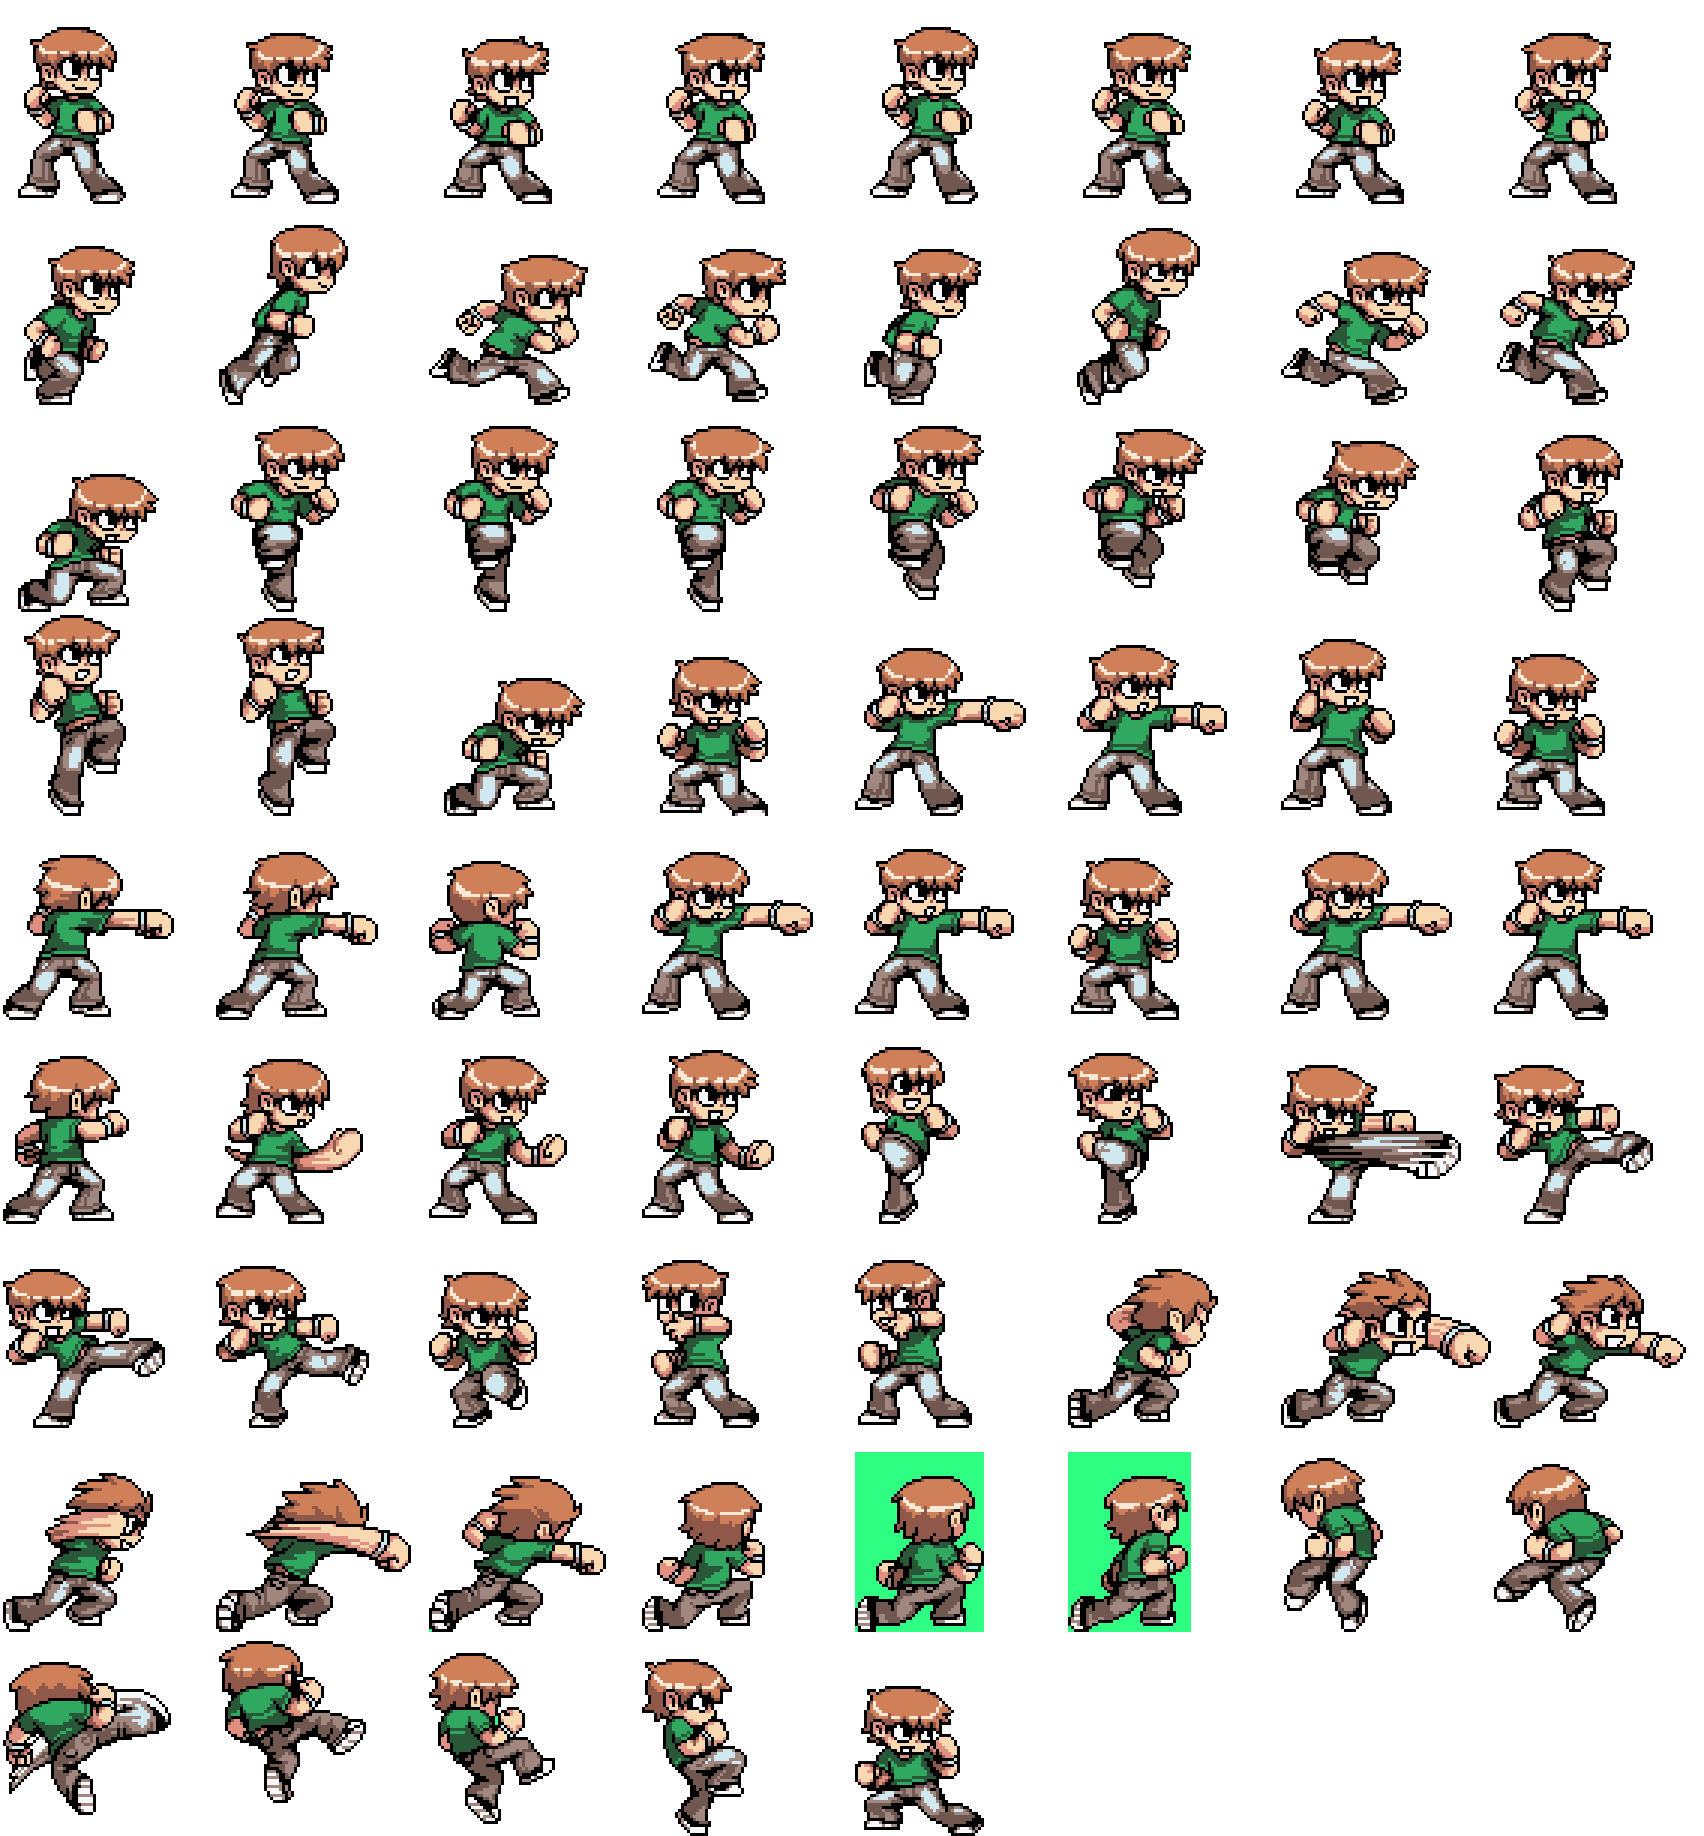
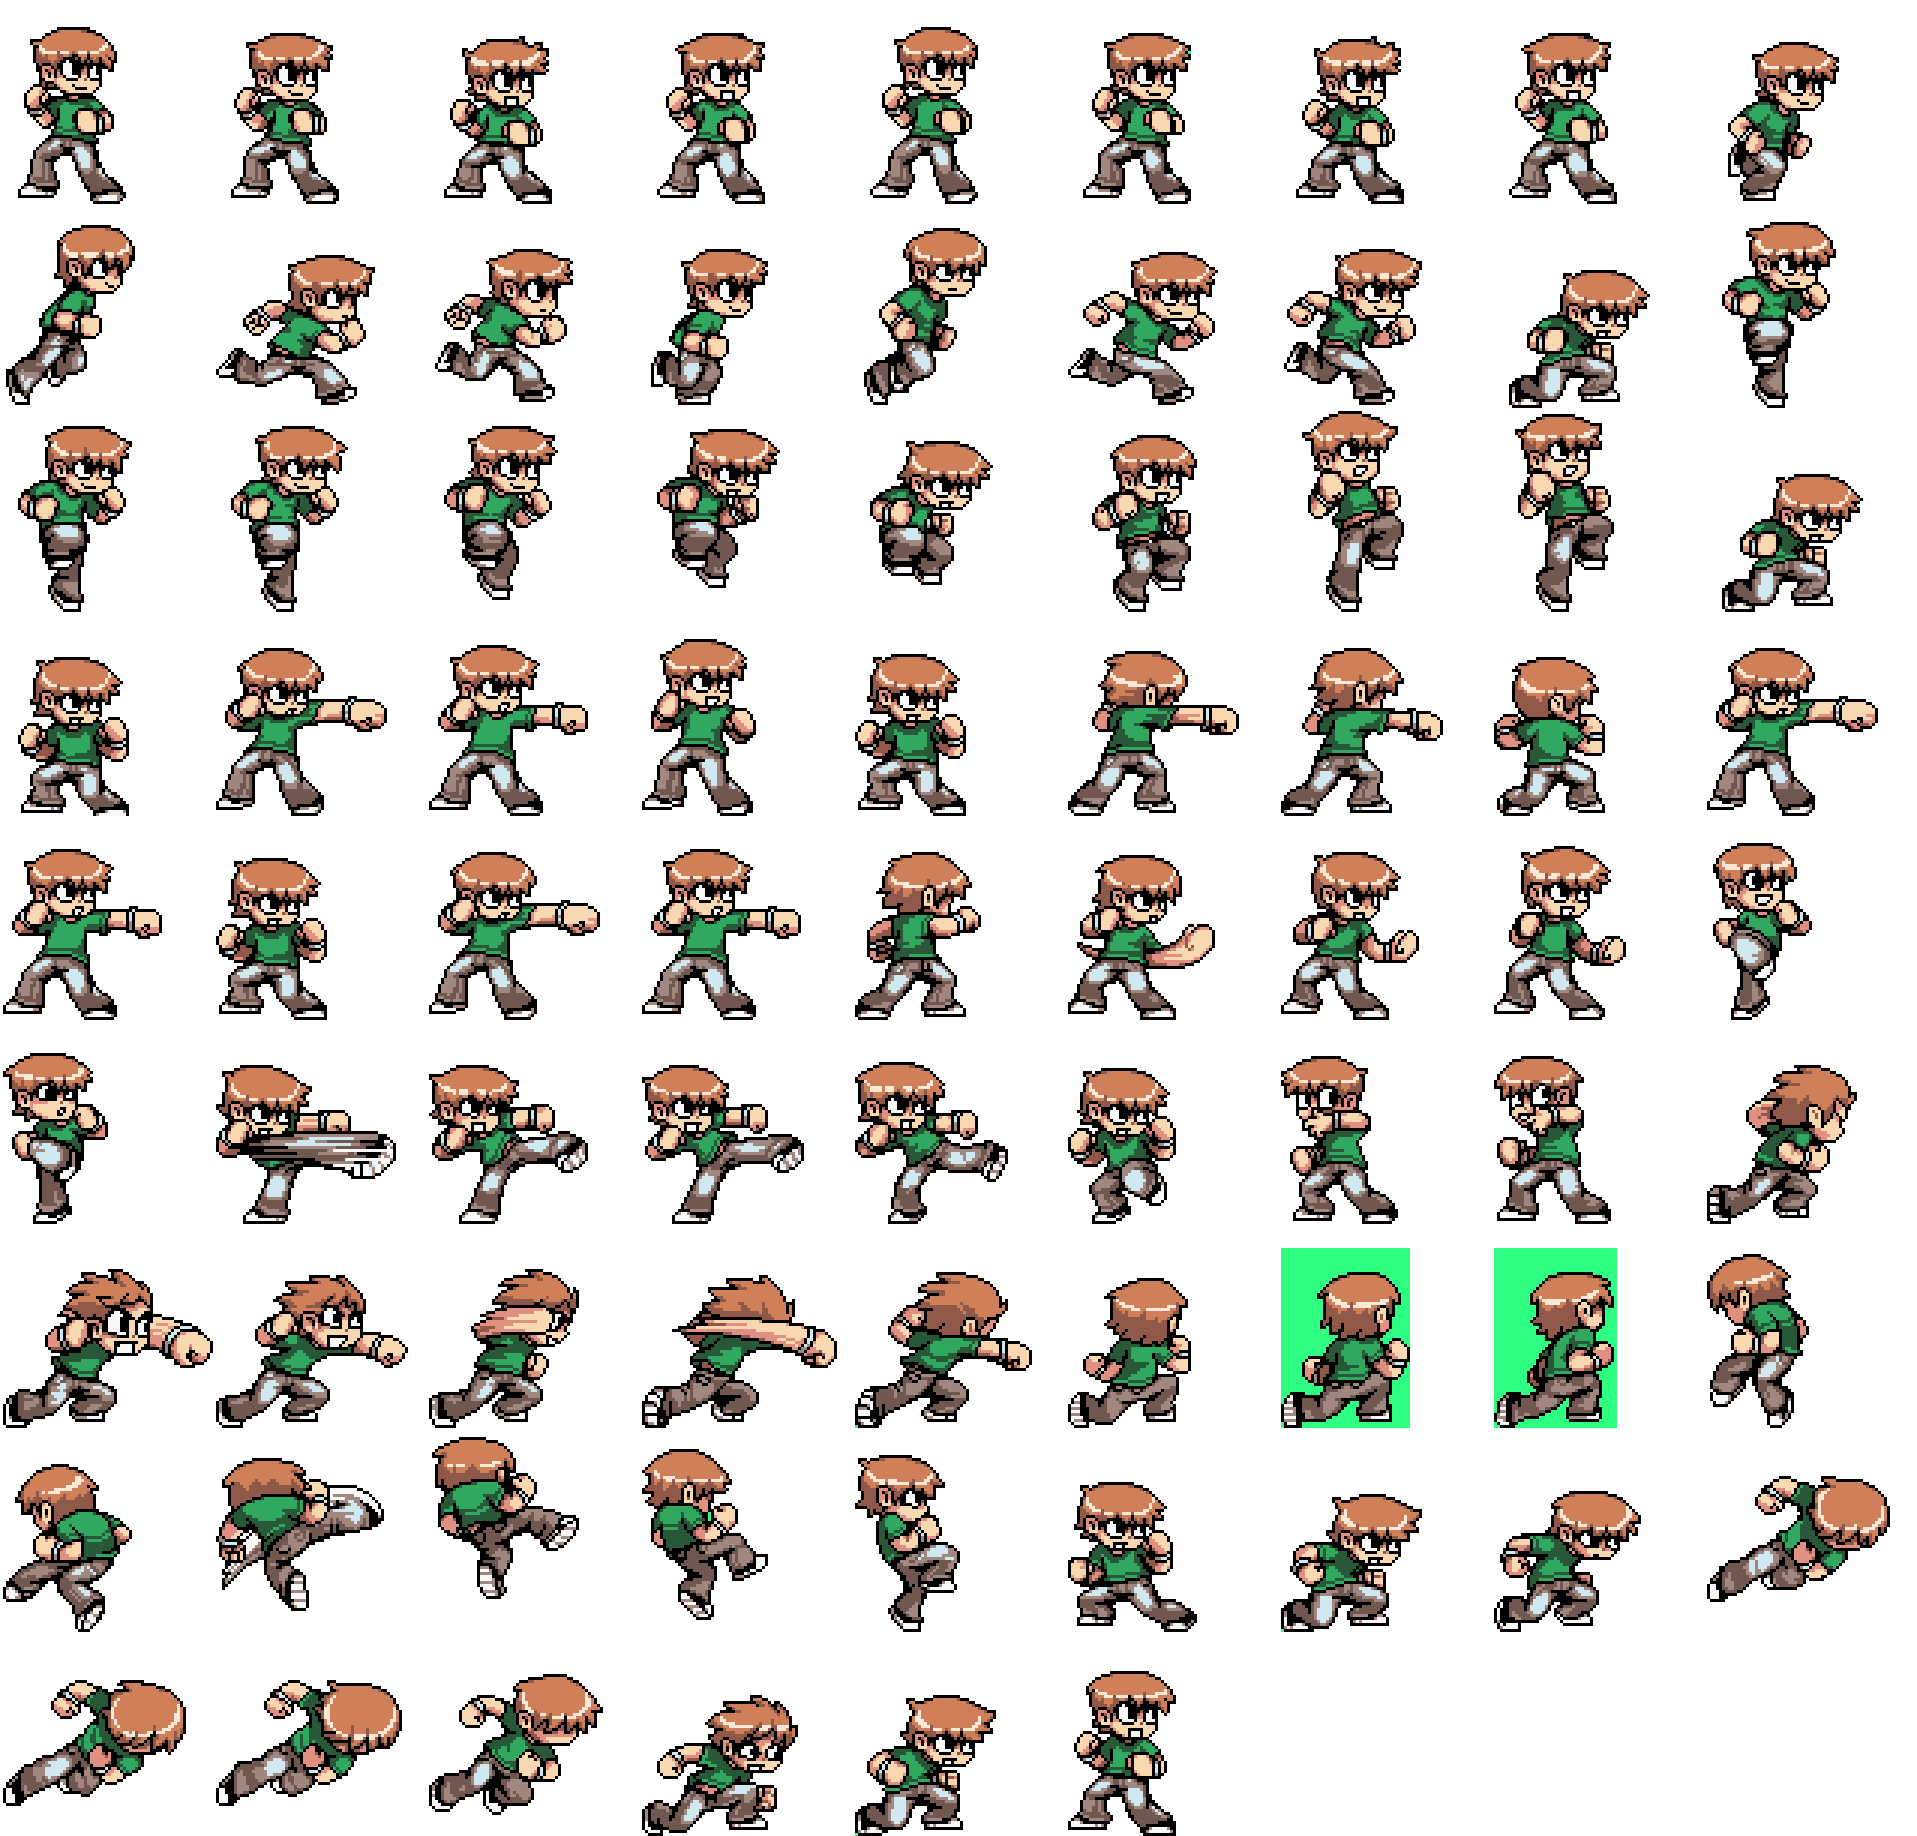
attacks now cancel out running anim (right)

diff --git a/resources/js/state1.js b/resources/js/state1.js
@@ -5,6 +5,7 @@ let pSpeed = 15;
 let player,
     atkBox,
     playerCombo = [],
+    pKeyPressed,
     platform,
     playerJump = 15,
     relativePosX = 0,
@@ -38,7 +39,7 @@ demo.state1 = function () { };
 demo.state1.prototype = {
     preload: function () {
         //preloads spritesheets to be used in create
-        game.load.spritesheet('tester', 'resources/art/test-scott.png', 213, 204, 69);
+        game.load.spritesheet('tester', 'resources/art/test-scott.png', 213, 204, 78);
         game.load.spritesheet('ground', 'resources/art/platform.png', 123, 204);
         game.load.spritesheet('hbox', 'resources/art/hbox.png', 40, 40);
 
@@ -64,7 +65,7 @@ demo.state1.prototype = {
 
         //selects frames from the assigned spritesheet and sets them apart for its animation
         player.animations.add('idle', [0, 1, 2, 3, 4, 5, 6, 7], 12, true);
-        player.animations.add('run', [8, 9, 10, 11, 12, 13, 14, 15], 12, true);
+        player.animations.add('run', [8, 9, 10, 11, 12, 13, 14, 15], 12, false);
         player.animations.add('jump', [16, 17, 18, 19, 20, 21, 22, 23, 24, 25], 12, false);
         //neutralpunch2 would follow nuetralpunch1 after it finishes running, like a combo
         //would require input, let's say that hitting 'a' for example, would trigger neutralPunch1, if pressed again at the right...
@@ -78,6 +79,8 @@ demo.state1.prototype = {
         player.animations.add('neutralKick', [45, 46, 47, 48, 49, 50, 51], 12, false);
 
         player.animations.add('specialKick1', [63, 64, 65, 66, 67, 68, 69], 14, false);
+
+        player.animations.add('runAttack', [70, 71, 72, 73, 74, 75, 76, 77, 78], 14, false);
 
 
 
@@ -117,6 +120,7 @@ demo.state1.prototype = {
 
         console.log(atkBox);
         console.log(player);
+        console.log(game.input.keyboard._onKeyPress(Phaser.Keyboard.RIGHT));
 
     },
     update: function () {
@@ -124,8 +128,16 @@ demo.state1.prototype = {
         //player and platform will collide
 
         game.physics.arcade.collide(player, platform);
-
+/*         if(game.input.keyboard.isDown(Phaser.Keyboard.RIGHT)){
+            player.x +=2;
+            player.animations.play('run');
+            
+        }else if(game.input.keyboard.isDown(Phaser.Keyboard.RIGHT) && pKeyPressed){
+            return;
+        } */
         //runs function on key press
+
+        runJumpIdle();
 
         game.input.keyboard.onPressCallback = function (e) {
             console.log("key pressed", e);
@@ -137,8 +149,9 @@ demo.state1.prototype = {
                 case 's':
                     player.animations.play('neutralKick');
                     playerCombo[0] = (player.animations.currentAnim.name);
+                    pKeyPressed = 's';
                     console.log(playerCombo);
-
+                    console.log(pKeyPressed);
                     break;
 
                 // 'd' will be the special button. Hit this button attack the right time, and you might unleash a speciall attack or combo
@@ -149,7 +162,7 @@ demo.state1.prototype = {
 
                     if (playerCombo[0] == 'neutralPunch3' && player.animations.currentAnim.name != 'idle') {
                         if (player.animations.currentAnim.name === 'neutralPunch3' || player.animations.currentAnim.isFinished) {
-
+                            pKeyPressed = 'd';
                             player.animations.play('specialKick1');
                             playerCombo[0] = (player.animations.currentAnim.name);
 
@@ -164,6 +177,7 @@ demo.state1.prototype = {
                     break;
                 //standard attack
                 case 'a':
+                
                     if (playerCombo[0] == 'neutralPunch1' && player.animations.currentAnim.name != 'idle') {
                         if (player.animations.currentAnim.name === 'neutralPunch1' || player.animations.currentAnim.isFinished) {
 
@@ -200,8 +214,8 @@ demo.state1.prototype = {
                             return;
                         }
                     } else {
-                        if (player.animations.currentAnim.name === 'idle' || player.animations.currentAnim.isFinished) {
-
+                        if ((player.animations.currentAnim.name === 'idle' || player.animations.currentAnim.name === 'run' ) || player.animations.currentAnim.isFinished) {
+                            pKeyPressed = 'a';
                             player.animations.play('neutralPunch1');
                             playerCombo[0] = (player.animations.currentAnim.name);
                             console.log(playerCombo);
@@ -212,33 +226,51 @@ demo.state1.prototype = {
 
                     break;
 
+                    case 'ArrowRight':
+                    console.log('left');
+                    break;
+
                 default:
                     break;
             }
 
-
-            /*
-            if(e == ('a')){
-                clearTimeout(reseter);
-                comboReset();
-            }
-
-            */
-
         }
+        game.input.keyboard.onUpCallback = function (e) {
+            // These can be checked against Phaser.Keyboard.UP, for example.
+            console.log(e);
+        };
 
 
 
-        //if current animation is finished, the idle nimation will play
-        if (player.animations.currentAnim.isFinished) {
-            player.animations.play('idle');
-            playerCombo = [];
 
-        }
-
+        
         movePlayerAttackBox(atkBox);
 
-        //renders hitbox temporarily while attacking
+        //runs script to decide when the character should be playing its running, idle, or jumping anims
+        function runJumpIdle (){
+            //if current animation is finished, the idle animation will play, playerCombos will be rest as well as pKeyPressed
+            if (player.animations.currentAnim.isFinished) {
+                player.animations.play('idle');
+                playerCombo = [];
+                if(player.animations.currentAnim != 'neutralKick' || playerCombo === []){
+                    pKeyPressed = '';
+                }
+               
+    
+            }else if(player.animations.currentAnim == 'idle' && player.animations.currentAnim != ('neutralKick' || 'neutralPunch1' || 'neutralPunch2' || 'neutralPunch3' || 'neutralPunch4'  ) || (!player.animations.currentAnim.isFinished)  ){
+                if(game.input.keyboard.isDown(Phaser.Keyboard.RIGHT) && !pKeyPressed ){
+                    player.animations.play('run');
+                    player.x += 3;
+                }else if(!game.input.keyboard.isDown(Phaser.Keyboard.RIGHT) || pKeyPressed || game.input.keyboard.isDown(Phaser.Keyboard.A) || game.input.keyboard.isDown(keys.d) || game.input.keyboard.isDown(keys.w) ){
+                    player.animations.stop('run');
+                }
+            }
+
+
+        }
+
+        
+        //renders hitbox temporarily while attacking (debugging)
         function movePlayerAttackBox(atkBox) {
             let posX = player.x + relativePosX;
             let posY = player.y + relativePosY;
@@ -252,8 +284,7 @@ demo.state1.prototype = {
                 y: posY,
                 type: 25
             }
-            //game.debug.body(atkBox);
-            game.debug.body(player);
+
 
             switch (playerCombo[0]) {
                 case 'neutralPunch1':
@@ -278,7 +309,7 @@ demo.state1.prototype = {
                     break;
 
                 case 'neutralPunch5':
-                    relativePosX = 130;
+                    relativePosX = 100;
                     relativePosY = 120;
                     atkBox.alpha = 0.6;
                     resetHitBox (atkBox);
